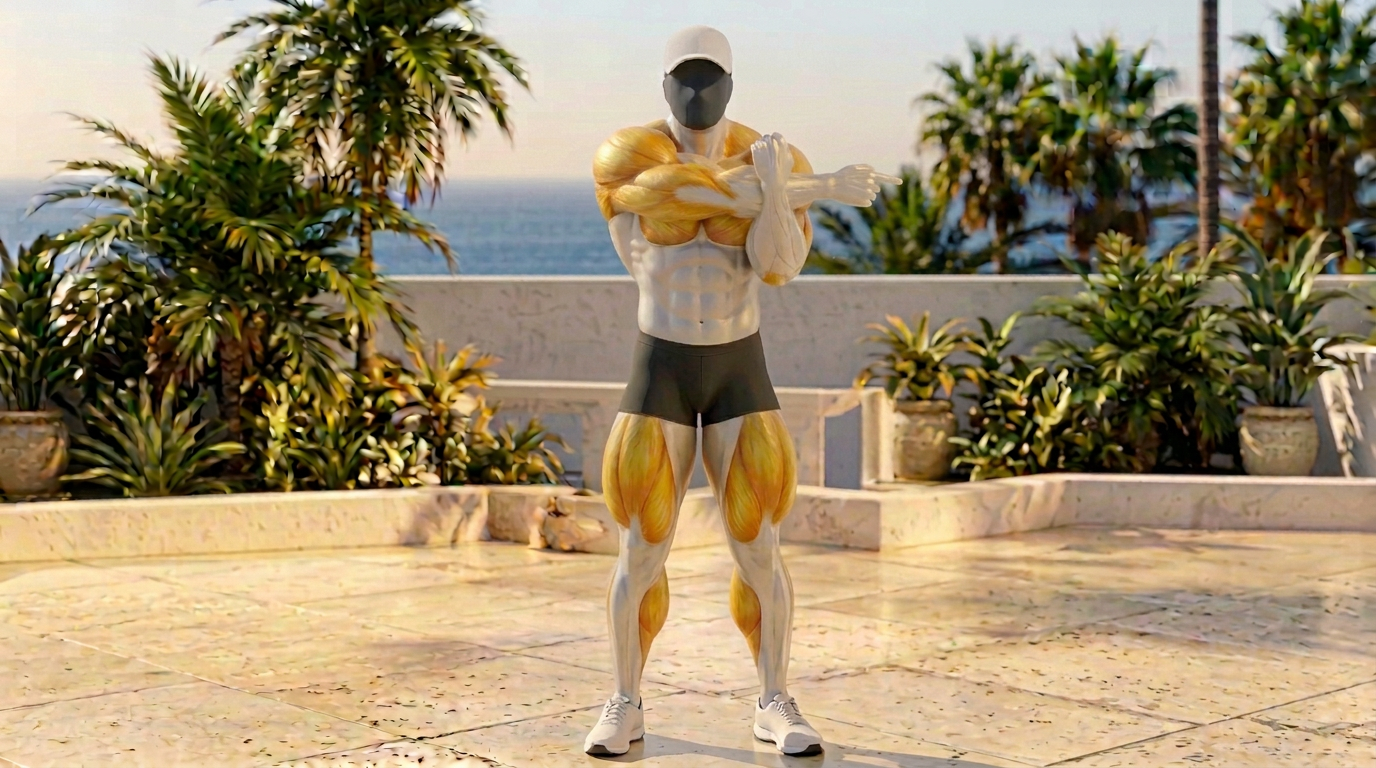
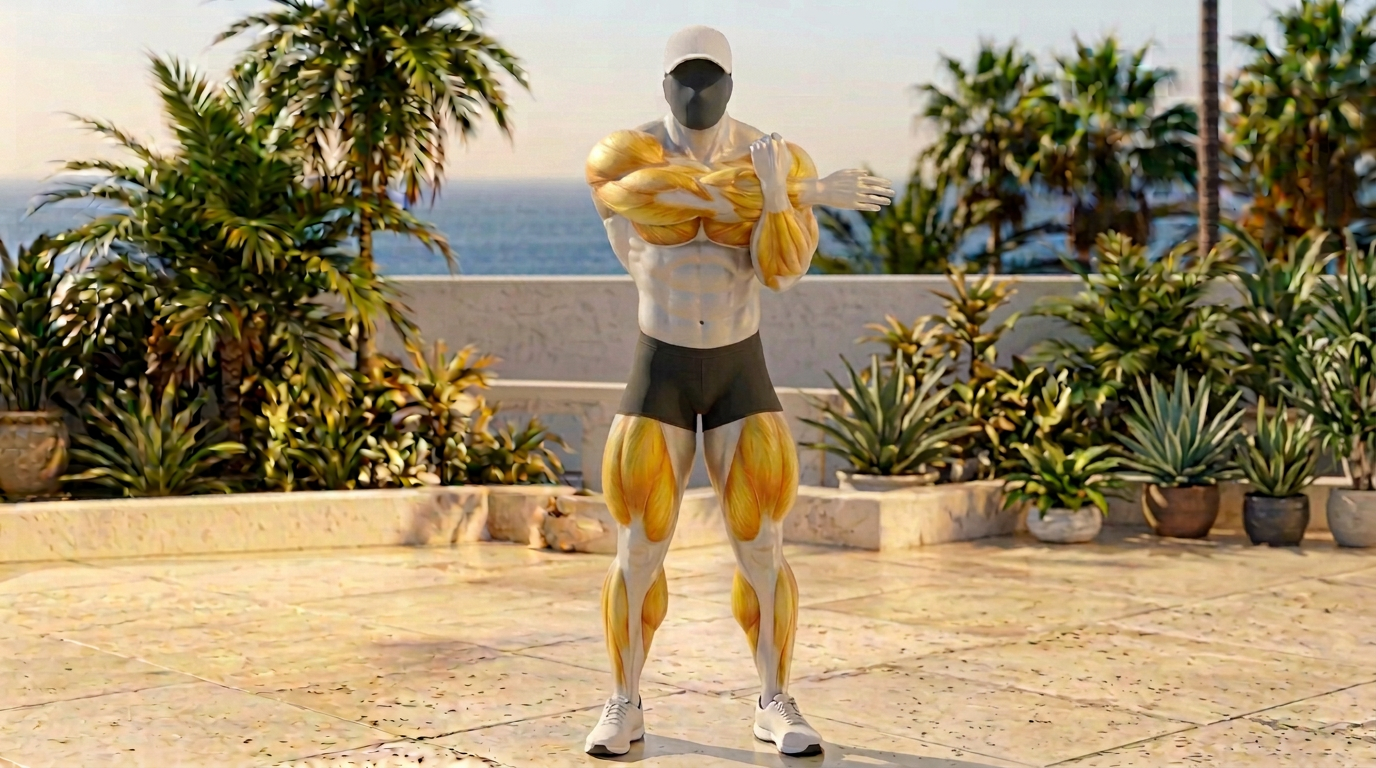
Lot1 re-musclé (v3/v4) + lot3-01 v3 sans poteau à fond imposé : galerie MAJ
- lot1-01 encadrement v3, lot1-02 bras-mur v4 (4 clés) : volume référence, poteau conservé (appui fonctionnel)
- lot3-01 v3 : poteau retiré, clés M/B refabriquées avec fond imposé (NCC >=0.998)
- mesures : sol dans bande 219-253 partout, mer FAIBLE = seule réserve récurrente
- MANIFESTE + GALERIE MAJ, HTTP 200

diff --git a/yanis-fitness-evolution/animations/_locked/GALERIE-MODULES-1-2.html b/yanis-fitness-evolution/animations/_locked/GALERIE-MODULES-1-2.html
@@ -30,9 +30,9 @@
 </header>
 <main>
 <h2>Module 1 — Échauffement (8 min : elliptique, mobilité, activation, geste technique)</h2><div class="grille"><figure><img src="build/corrections/warmup-elliptique-poses/GIF-elliptique-candidatB-foulee-complete-avec-manche-a-corriger.gif" alt="Elliptique — mise en route · CANDIDAT B (foulée complète 4 phases)"><figcaption><b>1a. Elliptique — mise en route · CANDIDAT B (foulée complète 4 phases)</b><ul><li>4 min à allure facile : dos droit, épaules relâchées, pieds posés à plat et cadence régulière. Vous devez pouvoir parler.</li><li>Décor E1 unifié par composite (plaque de fond unique), sol_dom 219 = valeur approuvée le 16/10 pour l'elliptique intégré.</li><li>RÉSERVE À VALIDER : la phase avant (pose 3 corrigée mains) montre encore un petit manchon noir près de la console — à faire sauter si vous choisissez ce candidat.</li></ul><span class="etat attente">à valider / corriger</span></figcaption></figure><figure><img src="build/corrections/warmup-elliptique-poses/GIF-elliptique-candidatC-demi-foulee-sans-defaut.gif" alt="Elliptique — mise en route · CANDIDAT C (demi-foulée, sans aucun défaut)"><figcaption><b>1b. Elliptique — mise en route · CANDIDAT C (demi-foulée, sans aucun défaut)</b><ul><li>Mêmes recommandations que 1a. Aucun artefact : seulement deux phases (arrière ↔ passage), donc mouvement de balancier, pas de foulée complète.</li><li>Choix de repli si le manchon du candidat B est refusé.</li></ul><span class="etat attente">à valider / corriger</span></figcaption></figure><figure><img src="build/corrections/warmup-scapulaire-poses/GIF-scapulaire-fluide-v1.gif" alt="Activation scapulaire · pompes inclinées (GIF fluide v1)"><figcaption><b>1c. Activation scapulaire · pompes inclinées (GIF fluide v1)</b><ul><li>Mains sur un support stable, bras tendus : 2 × 8 pompes scapulaires, omoplates rapprochées puis écartées sans plier les coudes.</li><li>Mesuré CONFORME : sol_dom 228-229, saturation 37-38, lime ≤ 0,01 %, muscles dorés 7,5-8,4 %.</li></ul><span class="etat attente">à valider</span></figcaption></figure><figure><img src="../../public/media/6d278876a579cbc8.gif" alt="Mobilité des épaules (GIF intégré du 13/10, inchangé)"><figcaption><b>1d. Mobilité des épaules (GIF intégré du 13/10, inchangé)</b><ul><li>Bras devant la poitrine : ouvrez puis croisez 8 fois, puis 8 cercles d'épaules lents.</li><li>Déjà approuvé et intégré le 13/10 — non régénéré (règle : un média conforme ne se régénère pas).</li></ul><span class="etat">intégré (pour mémoire)</span></figcaption></figure></div>
-<h2>Module 2 — Étirement · lot 1 (pec, dos, lombaires)</h2><div class="grille"><figure><img src="candidats/2026-10-16-etirement-lot1/GIF-01-encadrement-porte-fluide-v2.gif" alt="Étirement dans l'encadrement de porte (pec) — appui = montant de marbre de la terrasse"><figcaption><b>2. Étirement dans l'encadrement de porte (pec) — appui = montant de marbre de la terrasse</b><ul><li>Appui à hauteur d'épaule, coude ~90°, thorax incliné vers l'avant, abdos engagés, 30-45 s.</li><li>Mesuré : sol 227-234, saturation 37-39, mer 2,2-2,7 % (plage acceptable 2,3-2,9 après contrôle visuel : mer présente au fond).</li></ul><span class="etat attente">à valider</span></figcaption></figure><figure><img src="candidats/2026-10-16-etirement-lot1/GIF-02-bras-mur-fluide-v3.gif" alt="Bras tendu contre le mur (pec)"><figcaption><b>3. Bras tendu contre le mur (pec)</b><ul><li>Bras tendu à hauteur d'épaule, paume au montant, rotation du tronc opposée à l'appui, épaule basse, 30 s par côté.</li><li>4 clés (face → bras posé → demi-rotation → rotation complète) ; colonne mesurée alignée au pixel près sur les 4 clés.</li></ul><span class="etat attente">à valider</span></figcaption></figure><figure><img src="candidats/2026-10-16-etirement-lot1/GIF-03-balasana-fluide-v3.gif" alt="Position de l'enfant / Balasana (dos, lombaires)"><figcaption><b>4. Position de l'enfant / Balasana (dos, lombaires)</b><ul><li>Genoux au sol, hanches vers les talons, bras tendus devant, front vers le sol, respiration dans le dos, 30-45 s.</li><li>Mesuré CONFORME : sol 228-235, saturation 42-44, lime ≤ 0,06 %.</li></ul><span class="etat attente">à valider</span></figcaption></figure></div>
+<h2>Module 2 — Étirement · lot 1 (pec, dos, lombaires)</h2><div class="grille"><figure><img src="candidats/2026-10-16-etirement-lot1/GIF-01-encadrement-porte-fluide-v3.gif" alt="Étirement dans l'encadrement de porte (pec) — appui = montant de marbre de la terrasse"><figcaption><b>2. Étirement dans l'encadrement de porte (pec) — appui = montant de marbre de la terrasse</b><ul><li>Appui à hauteur d'épaule, coude ~90°, thorax incliné vers l'avant, abdos engagés, 30-45 s.</li><li>Mesuré : sol 227-234, saturation 37-39, mer 2,2-2,7 % (plage acceptable 2,3-2,9 après contrôle visuel : mer présente au fond).</li></ul><span class="etat attente">à valider</span></figcaption></figure><figure><img src="candidats/2026-10-16-etirement-lot1/GIF-02-bras-mur-fluide-v4.gif" alt="Bras tendu contre le mur (pec)"><figcaption><b>3. Bras tendu contre le mur (pec)</b><ul><li>Bras tendu à hauteur d'épaule, paume au montant, rotation du tronc opposée à l'appui, épaule basse, 30 s par côté.</li><li>4 clés (face → bras posé → demi-rotation → rotation complète) ; colonne mesurée alignée au pixel près sur les 4 clés.</li></ul><span class="etat attente">à valider</span></figcaption></figure><figure><img src="candidats/2026-10-16-etirement-lot1/GIF-03-balasana-fluide-v3.gif" alt="Position de l'enfant / Balasana (dos, lombaires)"><figcaption><b>4. Position de l'enfant / Balasana (dos, lombaires)</b><ul><li>Genoux au sol, hanches vers les talons, bras tendus devant, front vers le sol, respiration dans le dos, 30-45 s.</li><li>Mesuré CONFORME : sol 228-235, saturation 42-44, lime ≤ 0,06 %.</li></ul><span class="etat attente">à valider</span></figcaption></figure></div>
 <h2>Module 2 — Étirement · lot 2 (dos, lombaires, épaule avant)</h2><div class="grille"><figure><img src="candidats/2026-10-16-etirement-lot2/GIF-01-suspension-barre-fluide-v2.gif" alt="Suspension à la barre (dos)"><figcaption><b>5. Suspension à la barre (dos)</b><ul><li>Prise un peu plus large que les épaules, coudes tendus, corps gainé, 20-30 s.</li><li>Mesuré CONFORME après réétalonnage du sol sablé : sol_dom 235, saturation 42, lime 0 %.</li></ul><span class="etat attente">à valider</span></figcaption></figure><figure><img src="candidats/2026-10-16-etirement-lot2/GIF-02-torsion-allongee-fluide-v1.gif" alt="Torsion allongée genoux (dos, lombaires)"><figcaption><b>6. Torsion allongée genoux (dos, lombaires)</b><ul><li>Épaules au sol, genoux groupés basculés d'un côté, regard opposé, 30 s par côté.</li><li>Mesuré CONFORME 7/7 images : sol 234, saturation 40,6, lime ≤ 0,06 %.</li></ul><span class="etat attente">à valider</span></figcaption></figure><figure><img src="candidats/2026-10-16-etirement-lot2/GIF-03-mains-croisees-dos-fluide-v3.gif" alt="Mains croisées derrière le dos (épaule avant)"><figcaption><b>7. Mains croisées derrière le dos (épaule avant)</b><ul><li>Doigts entrelacés derrière le dos, bras tendus et éloignés du dos, poitrine ouverte, épaules basses, 30 s.</li><li>Mer 2,4-2,5 % : dans la plage acceptable 2,3-2,9 après contrôle visuel (mer visible au fond).</li></ul><span class="etat attente">à valider</span></figcaption></figure></div>
-<h2>Module 2 — Étirement · lot 3 (épaule latérale, épaule postérieure, biceps)</h2><div class="grille"><figure><img src="candidats/2026-10-16-etirement-lot3/GIF-01-bras-contre-poitrine-fluide-v2.gif" alt="Bras tendu contre la poitrine (épaule latérale)"><figcaption><b>8. Bras tendu contre la poitrine (épaule latérale)</b><ul><li>Bras horizontal à hauteur de poitrine, avant-bras opposé en crochet, traction vers le corps, épaule basse, 30 s par côté.</li><li>Sol 228-242 (dans la bande 219-253), saturation 39-40, mer 2,6-2,7 % (plage acceptable après contrôle visuel).</li></ul><span class="etat attente">à valider</span></figcaption></figure></div>
+<h2>Module 2 — Étirement · lot 3 (épaule latérale, épaule postérieure, biceps)</h2><div class="grille"><figure><img src="candidats/2026-10-16-etirement-lot3/GIF-01-bras-contre-poitrine-fluide-v3.gif" alt="Bras tendu contre la poitrine (épaule latérale)"><figcaption><b>8. Bras tendu contre la poitrine (épaule latérale)</b><ul><li>Bras horizontal à hauteur de poitrine, avant-bras opposé en crochet, traction vers le corps, épaule basse, 30 s par côté.</li><li>Sol 228-242 (dans la bande 219-253), saturation 39-40, mer 2,6-2,7 % (plage acceptable après contrôle visuel).</li></ul><span class="etat attente">à valider</span></figcaption></figure></div>
 <h2>En production (prochains lots, non encore présentés)</h2><div class="grille"><figure><div style="padding:28px;background:#0d1420;color:#8fa1b3;text-align:center">visuel en production — entrée ajoutée dès ses clés contrôlées</div><figcaption><b>—. Lots 3 (suite) à 8 : 13 visuels restants (bras devant main tirée, bras derrière, triceps, fléchisseurs, extenseurs, cobra, pigeon, quadriceps, ischios, adducteurs, mollets)</b><ul><li>Placeholder : chaque visuel restant aura sa propre entrée dès ses clés validées en interne (contrôle visuel + verifier-pose).</li><li>Cadence : 10 générations d'images maximum par tour de travail — la production se poursuit tour après tour.</li></ul><span class="etat attente">en production</span></figcaption></figure></div>
 </main>
 </body>
